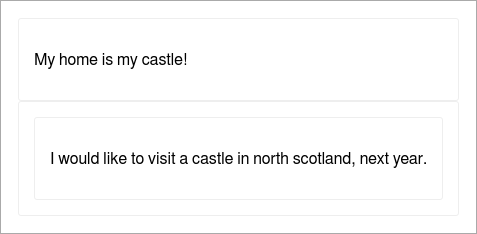
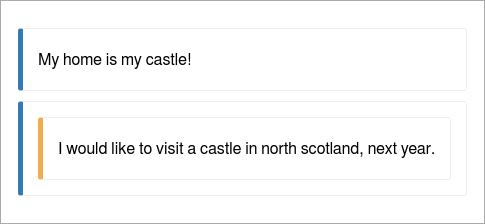
Optimize style of blockquotes.

Changed region(s): [[0.0294, 0.4375, 0.9099, 0.875], [0.0294, 0.125, 0.4109, 0.4062]]

diff --git a/src/examples/block-code.html b/src/examples/block-code.html
@@ -3,7 +3,7 @@
   <head>
     <title>Report</title>
     <meta charset="UTF-8" />
-    <link rel="stylesheet" href="https://cdn.jsdelivr.net/highlight.js/8.5.0/styles/solarized_light.min.css" /><style type="text/css">html{background:#ddd;padding:20px}body{font-family:"Helvetica Neue",Helvetica,"Segoe UI",Arial,freesans,sans-serif,"Apple Color Emoji","Segoe UI Emoji","Segoe UI Symbol";font-size:16px;line-height:1.2;word-wrap:break-word}div#page{border:1px solid #aaa;box-shadow:0 8px 16px 0 rgba(0,0,0,0.4),0 12px 40px 0 rgba(0,0,0,0.4);max-width:800px;display:inline-block;background:#fff;padding:17px;overflow:auto}div#page > h1{margin-top:0}h1{border-bottom:3px solid #222;padding-bottom:5px}h2{border-bottom:2px dotted #222;padding-bottom:3px}h3{border-bottom:1px dotted #aaa;padding-bottom:2px}a{color:#00008b}dt{font-weight:bold;margin-top:8px}blockquote{border:1px solid #eee;border-radius:3px;border-left:5px solid color-blue;padding:15px;margin:0}img{vertical-align:middle}.emoji{height:1em}abbr,acronym{border-bottom:dotted 1px}table{border-collapse:collapse;border-spacing:0;display:block;width:100%;overflow:auto;word-break:normal;word-break:keep-all;}table th,table td{padding:6px 13px;border:1px solid #ddd}table th{background-color:rgba(0,0,0,0.04);font-weight:bold;border-bottom:3px solid #999}table tr{background-color:#fff;border-top:1px solid #ccc;}table tr :nth-child(2n){background-color:rgba(0,0,0,0.04)}code,tt{background-color:#fafafa;border-radius:4px;font-size:85%;margin:0;padding:.2em 0}pre{background-color:#fafafa;border-radius:10px;border:1px solid #a4a4a4;font-size:85%;margin:20px;padding:10px;counter-reset:line;}pre code,pre tt{background:none;}pre code:before,pre tt:before{counter-increment:line;content:counter(line);min-width:35px;display:block;float:left;text-align:right;padding-right:5px;color:#808080;-webkit-touch-callout:none;user-select:none;-webkit-user-select:none}pre.language{max-height:280px;padding-top:30px;}pre.language header{font-weight:bold;background:#fafafa;margin:-30px -10px 5px -10px;padding:5px 15px}pre.language.bash header,pre.language.coffeescript header,pre.language.js header,pre.language.sh header,pre.language.sql header{background:#f0ad4e}pre.language.json header,pre.language.yaml header{background:#61b961}pre.language.handlebars header,pre.language.markdown header{background:#76abca}.table-of-contents{border:2px solid #ddd;border-radius:10px;float:right;margin-top:0;padding:10px 10px 10px 25px;background:#fafafa;font-size:90%;}.table-of-contents header{font-weight:bold;font-size:120%;display:block;background:#ddd;margin:-10px -10px 4px -25px;border-top-left-radius:10px;border-top-right-radius:10px;padding:3px 10px}.table-of-contents ul{padding-left:15px}.table-of-contents a{text-decoration:none}div.detail,div.info,div.warning,div.alert{padding:30px 10px 6px 10px;margin:5px 0 8px 0;border-radius:3px;}div.detail >p,div.info >p,div.warning >p,div.alert >p{margin-bottom:0}div.detail header,div.info header,div.warning header,div.alert header{font-weight:bold;position:absolute;margin-top:-30px;margin-left:-10px;padding:3px 20px 3px 10px;border-bottom-right-radius:18px}div.detail{background-color:#fafafa;border:2px solid #ddd;}div.detail header{background-color:#ddd}div.info{background-color:#9f9;border:2px solid #6d6;}div.info header{background-color:#6d6}div.warning{background-color:#fc9;border:2px solid #e86;}div.warning header{background-color:#e86}div.alert{background-color:#f99;border:2px solid #c00;}div.alert header{background-color:#c00;color:#fff}.text-red{color:#d13f19}.text-green{color:#2ecc40}.text-yellow{color:#ffdc00}.text-blue{color:#0074d9}.text-magenta{color:#f0f}.text-cyan{color:#0ff}.text-gray{color:#aaa}.bg-white{background-color:#fff}.center{text-align:center}.left{float:left}.right{float:right}.hide{display:none}.spacing{padding:10px}</style>
+    <link rel="stylesheet" href="https://cdn.jsdelivr.net/highlight.js/8.5.0/styles/solarized_light.min.css" /><style type="text/css">html{background:#ddd;padding:20px}body{font-family:"Helvetica Neue",Helvetica,"Segoe UI",Arial,freesans,sans-serif,"Apple Color Emoji","Segoe UI Emoji","Segoe UI Symbol";font-size:16px;line-height:1.2;word-wrap:break-word}div#page{border:1px solid #aaa;box-shadow:0 8px 16px 0 rgba(0,0,0,0.4),0 12px 40px 0 rgba(0,0,0,0.4);max-width:800px;display:inline-block;background:#fff;padding:17px;overflow:auto}div#page > h1{margin-top:0}h1{border-bottom:3px solid #222;padding-bottom:5px}h2{border-bottom:2px dotted #222;padding-bottom:3px}h3{border-bottom:1px dotted #aaa;padding-bottom:2px}a{color:#00008b}dt{font-weight:bold;margin-top:8px}blockquote{border:1px solid #eee;border-radius:3px;border-left:5px solid #337ab7;padding:5px 15px;margin:10px 0;}blockquote blockquote{border-left-color:#f0ad4e;}blockquote blockquote blockquote{border-left-color:#337ab7;}blockquote blockquote blockquote blockquote{border-left-color:#f0ad4e}img{vertical-align:middle}.emoji{height:1em}abbr,acronym{border-bottom:dotted 1px}table{border-collapse:collapse;border-spacing:0;display:block;width:100%;overflow:auto;word-break:normal;word-break:keep-all;}table th,table td{padding:6px 13px;border:1px solid #ddd}table th{background-color:rgba(0,0,0,0.04);font-weight:bold;border-bottom:3px solid #999}table tr{background-color:#fff;border-top:1px solid #ccc;}table tr :nth-child(2n){background-color:rgba(0,0,0,0.04)}code,tt{background-color:#fafafa;border-radius:4px;font-size:85%;margin:0;padding:.2em 0}pre{background-color:#fafafa;border-radius:10px;border:1px solid #a4a4a4;font-size:85%;margin:20px;padding:10px;counter-reset:line;}pre code,pre tt{background:none;}pre code:before,pre tt:before{counter-increment:line;content:counter(line);min-width:35px;display:block;float:left;text-align:right;padding-right:5px;color:#808080;-webkit-touch-callout:none;user-select:none;-webkit-user-select:none}pre.language{max-height:280px;padding-top:30px;}pre.language header{font-weight:bold;background:#fafafa;margin:-30px -10px 5px -10px;padding:5px 15px}pre.language.bash header,pre.language.coffeescript header,pre.language.js header,pre.language.sh header,pre.language.sql header{background:#f0ad4e}pre.language.json header,pre.language.yaml header{background:#61b961}pre.language.handlebars header,pre.language.markdown header{background:#76abca}.table-of-contents{border:2px solid #ddd;border-radius:10px;float:right;margin-top:0;padding:10px 10px 10px 25px;background:#fafafa;font-size:90%;}.table-of-contents header{font-weight:bold;font-size:120%;display:block;background:#ddd;margin:-10px -10px 4px -25px;border-top-left-radius:10px;border-top-right-radius:10px;padding:3px 10px}.table-of-contents ul{padding-left:15px}.table-of-contents a{text-decoration:none}div.detail,div.info,div.warning,div.alert{padding:30px 10px 6px 10px;margin:5px 0 8px 0;border-radius:3px;}div.detail >p,div.info >p,div.warning >p,div.alert >p{margin-bottom:0}div.detail header,div.info header,div.warning header,div.alert header{font-weight:bold;position:absolute;margin-top:-30px;margin-left:-10px;padding:3px 20px 3px 10px;border-bottom-right-radius:18px}div.detail{background-color:#fafafa;border:2px solid #ddd;}div.detail header{background-color:#ddd}div.info{background-color:#9f9;border:2px solid #6d6;}div.info header{background-color:#6d6}div.warning{background-color:#fc9;border:2px solid #e86;}div.warning header{background-color:#e86}div.alert{background-color:#f99;border:2px solid #c00;}div.alert header{background-color:#c00;color:#fff}.text-red{color:#d13f19}.text-green{color:#2ecc40}.text-yellow{color:#ffdc00}.text-blue{color:#0074d9}.text-magenta{color:#f0f}.text-cyan{color:#0ff}.text-gray{color:#aaa}.bg-white{background-color:#fff}.center{text-align:center}.left{float:left}.right{float:right}.hide{display:none}.spacing{padding:10px}</style>
   </head>
   <body><div id="page"><pre class="language javascript"><header>JavaScript Code</header><code><span class="hljs-keyword">var</span> x = <span class="hljs-built_in">Math</span>.round(f);</code></pre>
 <pre class="language markdown"><header>Markdown Document</header><code>This <span class="hljs-strong">**is**</span> a ==markdown== text</code></pre>

diff --git a/src/examples/block-paragraph.html b/src/examples/block-paragraph.html
@@ -3,11 +3,13 @@
   <head>
     <title>Report</title>
     <meta charset="UTF-8" />
-    <style type="text/css">html{background:#ddd;padding:20px}body{font-family:"Helvetica Neue",Helvetica,"Segoe UI",Arial,freesans,sans-serif,"Apple Color Emoji","Segoe UI Emoji","Segoe UI Symbol";font-size:16px;line-height:1.2;word-wrap:break-word}div#page{border:1px solid #aaa;box-shadow:0 8px 16px 0 rgba(0,0,0,0.4),0 12px 40px 0 rgba(0,0,0,0.4);max-width:800px;display:inline-block;background:#fff;padding:17px;overflow:auto}div#page > h1{margin-top:0}h1{border-bottom:3px solid #222;padding-bottom:5px}h2{border-bottom:2px dotted #222;padding-bottom:3px}h3{border-bottom:1px dotted #aaa;padding-bottom:2px}a{color:#00008b}dt{font-weight:bold;margin-top:8px}blockquote{border:1px solid #eee;border-radius:3px;border-left:5px solid color-blue;padding:15px;margin:0}img{vertical-align:middle}.emoji{height:1em}abbr,acronym{border-bottom:dotted 1px}table{border-collapse:collapse;border-spacing:0;display:block;width:100%;overflow:auto;word-break:normal;word-break:keep-all;}table th,table td{padding:6px 13px;border:1px solid #ddd}table th{background-color:rgba(0,0,0,0.04);font-weight:bold;border-bottom:3px solid #999}table tr{background-color:#fff;border-top:1px solid #ccc;}table tr :nth-child(2n){background-color:rgba(0,0,0,0.04)}code,tt{background-color:#fafafa;border-radius:4px;font-size:85%;margin:0;padding:.2em 0}pre{background-color:#fafafa;border-radius:10px;border:1px solid #a4a4a4;font-size:85%;margin:20px;padding:10px;counter-reset:line;}pre code,pre tt{background:none;}pre code:before,pre tt:before{counter-increment:line;content:counter(line);min-width:35px;display:block;float:left;text-align:right;padding-right:5px;color:#808080;-webkit-touch-callout:none;user-select:none;-webkit-user-select:none}pre.language{max-height:280px;padding-top:30px;}pre.language header{font-weight:bold;background:#fafafa;margin:-30px -10px 5px -10px;padding:5px 15px}pre.language.bash header,pre.language.coffeescript header,pre.language.js header,pre.language.sh header,pre.language.sql header{background:#f0ad4e}pre.language.json header,pre.language.yaml header{background:#61b961}pre.language.handlebars header,pre.language.markdown header{background:#76abca}.table-of-contents{border:2px solid #ddd;border-radius:10px;float:right;margin-top:0;padding:10px 10px 10px 25px;background:#fafafa;font-size:90%;}.table-of-contents header{font-weight:bold;font-size:120%;display:block;background:#ddd;margin:-10px -10px 4px -25px;border-top-left-radius:10px;border-top-right-radius:10px;padding:3px 10px}.table-of-contents ul{padding-left:15px}.table-of-contents a{text-decoration:none}div.detail,div.info,div.warning,div.alert{padding:30px 10px 6px 10px;margin:5px 0 8px 0;border-radius:3px;}div.detail >p,div.info >p,div.warning >p,div.alert >p{margin-bottom:0}div.detail header,div.info header,div.warning header,div.alert header{font-weight:bold;position:absolute;margin-top:-30px;margin-left:-10px;padding:3px 20px 3px 10px;border-bottom-right-radius:18px}div.detail{background-color:#fafafa;border:2px solid #ddd;}div.detail header{background-color:#ddd}div.info{background-color:#9f9;border:2px solid #6d6;}div.info header{background-color:#6d6}div.warning{background-color:#fc9;border:2px solid #e86;}div.warning header{background-color:#e86}div.alert{background-color:#f99;border:2px solid #c00;}div.alert header{background-color:#c00;color:#fff}.text-red{color:#d13f19}.text-green{color:#2ecc40}.text-yellow{color:#ffdc00}.text-blue{color:#0074d9}.text-magenta{color:#f0f}.text-cyan{color:#0ff}.text-gray{color:#aaa}.bg-white{background-color:#fff}.center{text-align:center}.left{float:left}.right{float:right}.hide{display:none}.spacing{padding:10px}</style>
+    <style type="text/css">html{background:#ddd;padding:20px}body{font-family:"Helvetica Neue",Helvetica,"Segoe UI",Arial,freesans,sans-serif,"Apple Color Emoji","Segoe UI Emoji","Segoe UI Symbol";font-size:16px;line-height:1.2;word-wrap:break-word}div#page{border:1px solid #aaa;box-shadow:0 8px 16px 0 rgba(0,0,0,0.4),0 12px 40px 0 rgba(0,0,0,0.4);max-width:800px;display:inline-block;background:#fff;padding:17px;overflow:auto}div#page > h1{margin-top:0}h1{border-bottom:3px solid #222;padding-bottom:5px}h2{border-bottom:2px dotted #222;padding-bottom:3px}h3{border-bottom:1px dotted #aaa;padding-bottom:2px}a{color:#00008b}dt{font-weight:bold;margin-top:8px}blockquote{border:1px solid #eee;border-radius:3px;border-left:5px solid #337ab7;padding:5px 15px;margin:10px 0;}blockquote blockquote{border-left-color:#f0ad4e;}blockquote blockquote blockquote{border-left-color:#337ab7;}blockquote blockquote blockquote blockquote{border-left-color:#f0ad4e}img{vertical-align:middle}.emoji{height:1em}abbr,acronym{border-bottom:dotted 1px}table{border-collapse:collapse;border-spacing:0;display:block;width:100%;overflow:auto;word-break:normal;word-break:keep-all;}table th,table td{padding:6px 13px;border:1px solid #ddd}table th{background-color:rgba(0,0,0,0.04);font-weight:bold;border-bottom:3px solid #999}table tr{background-color:#fff;border-top:1px solid #ccc;}table tr :nth-child(2n){background-color:rgba(0,0,0,0.04)}code,tt{background-color:#fafafa;border-radius:4px;font-size:85%;margin:0;padding:.2em 0}pre{background-color:#fafafa;border-radius:10px;border:1px solid #a4a4a4;font-size:85%;margin:20px;padding:10px;counter-reset:line;}pre code,pre tt{background:none;}pre code:before,pre tt:before{counter-increment:line;content:counter(line);min-width:35px;display:block;float:left;text-align:right;padding-right:5px;color:#808080;-webkit-touch-callout:none;user-select:none;-webkit-user-select:none}pre.language{max-height:280px;padding-top:30px;}pre.language header{font-weight:bold;background:#fafafa;margin:-30px -10px 5px -10px;padding:5px 15px}pre.language.bash header,pre.language.coffeescript header,pre.language.js header,pre.language.sh header,pre.language.sql header{background:#f0ad4e}pre.language.json header,pre.language.yaml header{background:#61b961}pre.language.handlebars header,pre.language.markdown header{background:#76abca}.table-of-contents{border:2px solid #ddd;border-radius:10px;float:right;margin-top:0;padding:10px 10px 10px 25px;background:#fafafa;font-size:90%;}.table-of-contents header{font-weight:bold;font-size:120%;display:block;background:#ddd;margin:-10px -10px 4px -25px;border-top-left-radius:10px;border-top-right-radius:10px;padding:3px 10px}.table-of-contents ul{padding-left:15px}.table-of-contents a{text-decoration:none}div.detail,div.info,div.warning,div.alert{padding:30px 10px 6px 10px;margin:5px 0 8px 0;border-radius:3px;}div.detail >p,div.info >p,div.warning >p,div.alert >p{margin-bottom:0}div.detail header,div.info header,div.warning header,div.alert header{font-weight:bold;position:absolute;margin-top:-30px;margin-left:-10px;padding:3px 20px 3px 10px;border-bottom-right-radius:18px}div.detail{background-color:#fafafa;border:2px solid #ddd;}div.detail header{background-color:#ddd}div.info{background-color:#9f9;border:2px solid #6d6;}div.info header{background-color:#6d6}div.warning{background-color:#fc9;border:2px solid #e86;}div.warning header{background-color:#e86}div.alert{background-color:#f99;border:2px solid #c00;}div.alert header{background-color:#c00;color:#fff}.text-red{color:#d13f19}.text-green{color:#2ecc40}.text-yellow{color:#ffdc00}.text-blue{color:#0074d9}.text-magenta{color:#f0f}.text-cyan{color:#0ff}.text-gray{color:#aaa}.bg-white{background-color:#fff}.center{text-align:center}.left{float:left}.right{float:right}.hide{display:none}.spacing{padding:10px}</style>
   </head>
   <body><div id="page"><p>A new paragraph.</p>
 <p>A long text may be automatically broken
-into multiple lines.</p>
+into multiple lines. This is done in
+markup as defined and in html only as
+needed.</p>
 <p>And here comes a fixed<br />
 linebreak.</p>
 <p>With a second paragraph.</p>

diff --git a/src/examples/block-pre.html b/src/examples/block-pre.html
@@ -3,7 +3,7 @@
   <head>
     <title>Report</title>
     <meta charset="UTF-8" />
-    <style type="text/css">html{background:#ddd;padding:20px}body{font-family:"Helvetica Neue",Helvetica,"Segoe UI",Arial,freesans,sans-serif,"Apple Color Emoji","Segoe UI Emoji","Segoe UI Symbol";font-size:16px;line-height:1.2;word-wrap:break-word}div#page{border:1px solid #aaa;box-shadow:0 8px 16px 0 rgba(0,0,0,0.4),0 12px 40px 0 rgba(0,0,0,0.4);max-width:800px;display:inline-block;background:#fff;padding:17px;overflow:auto}div#page > h1{margin-top:0}h1{border-bottom:3px solid #222;padding-bottom:5px}h2{border-bottom:2px dotted #222;padding-bottom:3px}h3{border-bottom:1px dotted #aaa;padding-bottom:2px}a{color:#00008b}dt{font-weight:bold;margin-top:8px}blockquote{border:1px solid #eee;border-radius:3px;border-left:5px solid color-blue;padding:15px;margin:0}img{vertical-align:middle}.emoji{height:1em}abbr,acronym{border-bottom:dotted 1px}table{border-collapse:collapse;border-spacing:0;display:block;width:100%;overflow:auto;word-break:normal;word-break:keep-all;}table th,table td{padding:6px 13px;border:1px solid #ddd}table th{background-color:rgba(0,0,0,0.04);font-weight:bold;border-bottom:3px solid #999}table tr{background-color:#fff;border-top:1px solid #ccc;}table tr :nth-child(2n){background-color:rgba(0,0,0,0.04)}code,tt{background-color:#fafafa;border-radius:4px;font-size:85%;margin:0;padding:.2em 0}pre{background-color:#fafafa;border-radius:10px;border:1px solid #a4a4a4;font-size:85%;margin:20px;padding:10px;counter-reset:line;}pre code,pre tt{background:none;}pre code:before,pre tt:before{counter-increment:line;content:counter(line);min-width:35px;display:block;float:left;text-align:right;padding-right:5px;color:#808080;-webkit-touch-callout:none;user-select:none;-webkit-user-select:none}pre.language{max-height:280px;padding-top:30px;}pre.language header{font-weight:bold;background:#fafafa;margin:-30px -10px 5px -10px;padding:5px 15px}pre.language.bash header,pre.language.coffeescript header,pre.language.js header,pre.language.sh header,pre.language.sql header{background:#f0ad4e}pre.language.json header,pre.language.yaml header{background:#61b961}pre.language.handlebars header,pre.language.markdown header{background:#76abca}.table-of-contents{border:2px solid #ddd;border-radius:10px;float:right;margin-top:0;padding:10px 10px 10px 25px;background:#fafafa;font-size:90%;}.table-of-contents header{font-weight:bold;font-size:120%;display:block;background:#ddd;margin:-10px -10px 4px -25px;border-top-left-radius:10px;border-top-right-radius:10px;padding:3px 10px}.table-of-contents ul{padding-left:15px}.table-of-contents a{text-decoration:none}div.detail,div.info,div.warning,div.alert{padding:30px 10px 6px 10px;margin:5px 0 8px 0;border-radius:3px;}div.detail >p,div.info >p,div.warning >p,div.alert >p{margin-bottom:0}div.detail header,div.info header,div.warning header,div.alert header{font-weight:bold;position:absolute;margin-top:-30px;margin-left:-10px;padding:3px 20px 3px 10px;border-bottom-right-radius:18px}div.detail{background-color:#fafafa;border:2px solid #ddd;}div.detail header{background-color:#ddd}div.info{background-color:#9f9;border:2px solid #6d6;}div.info header{background-color:#6d6}div.warning{background-color:#fc9;border:2px solid #e86;}div.warning header{background-color:#e86}div.alert{background-color:#f99;border:2px solid #c00;}div.alert header{background-color:#c00;color:#fff}.text-red{color:#d13f19}.text-green{color:#2ecc40}.text-yellow{color:#ffdc00}.text-blue{color:#0074d9}.text-magenta{color:#f0f}.text-cyan{color:#0ff}.text-gray{color:#aaa}.bg-white{background-color:#fff}.center{text-align:center}.left{float:left}.right{float:right}.hide{display:none}.spacing{padding:10px}</style>
+    <style type="text/css">html{background:#ddd;padding:20px}body{font-family:"Helvetica Neue",Helvetica,"Segoe UI",Arial,freesans,sans-serif,"Apple Color Emoji","Segoe UI Emoji","Segoe UI Symbol";font-size:16px;line-height:1.2;word-wrap:break-word}div#page{border:1px solid #aaa;box-shadow:0 8px 16px 0 rgba(0,0,0,0.4),0 12px 40px 0 rgba(0,0,0,0.4);max-width:800px;display:inline-block;background:#fff;padding:17px;overflow:auto}div#page > h1{margin-top:0}h1{border-bottom:3px solid #222;padding-bottom:5px}h2{border-bottom:2px dotted #222;padding-bottom:3px}h3{border-bottom:1px dotted #aaa;padding-bottom:2px}a{color:#00008b}dt{font-weight:bold;margin-top:8px}blockquote{border:1px solid #eee;border-radius:3px;border-left:5px solid #337ab7;padding:5px 15px;margin:10px 0;}blockquote blockquote{border-left-color:#f0ad4e;}blockquote blockquote blockquote{border-left-color:#337ab7;}blockquote blockquote blockquote blockquote{border-left-color:#f0ad4e}img{vertical-align:middle}.emoji{height:1em}abbr,acronym{border-bottom:dotted 1px}table{border-collapse:collapse;border-spacing:0;display:block;width:100%;overflow:auto;word-break:normal;word-break:keep-all;}table th,table td{padding:6px 13px;border:1px solid #ddd}table th{background-color:rgba(0,0,0,0.04);font-weight:bold;border-bottom:3px solid #999}table tr{background-color:#fff;border-top:1px solid #ccc;}table tr :nth-child(2n){background-color:rgba(0,0,0,0.04)}code,tt{background-color:#fafafa;border-radius:4px;font-size:85%;margin:0;padding:.2em 0}pre{background-color:#fafafa;border-radius:10px;border:1px solid #a4a4a4;font-size:85%;margin:20px;padding:10px;counter-reset:line;}pre code,pre tt{background:none;}pre code:before,pre tt:before{counter-increment:line;content:counter(line);min-width:35px;display:block;float:left;text-align:right;padding-right:5px;color:#808080;-webkit-touch-callout:none;user-select:none;-webkit-user-select:none}pre.language{max-height:280px;padding-top:30px;}pre.language header{font-weight:bold;background:#fafafa;margin:-30px -10px 5px -10px;padding:5px 15px}pre.language.bash header,pre.language.coffeescript header,pre.language.js header,pre.language.sh header,pre.language.sql header{background:#f0ad4e}pre.language.json header,pre.language.yaml header{background:#61b961}pre.language.handlebars header,pre.language.markdown header{background:#76abca}.table-of-contents{border:2px solid #ddd;border-radius:10px;float:right;margin-top:0;padding:10px 10px 10px 25px;background:#fafafa;font-size:90%;}.table-of-contents header{font-weight:bold;font-size:120%;display:block;background:#ddd;margin:-10px -10px 4px -25px;border-top-left-radius:10px;border-top-right-radius:10px;padding:3px 10px}.table-of-contents ul{padding-left:15px}.table-of-contents a{text-decoration:none}div.detail,div.info,div.warning,div.alert{padding:30px 10px 6px 10px;margin:5px 0 8px 0;border-radius:3px;}div.detail >p,div.info >p,div.warning >p,div.alert >p{margin-bottom:0}div.detail header,div.info header,div.warning header,div.alert header{font-weight:bold;position:absolute;margin-top:-30px;margin-left:-10px;padding:3px 20px 3px 10px;border-bottom-right-radius:18px}div.detail{background-color:#fafafa;border:2px solid #ddd;}div.detail header{background-color:#ddd}div.info{background-color:#9f9;border:2px solid #6d6;}div.info header{background-color:#6d6}div.warning{background-color:#fc9;border:2px solid #e86;}div.warning header{background-color:#e86}div.alert{background-color:#f99;border:2px solid #c00;}div.alert header{background-color:#c00;color:#fff}.text-red{color:#d13f19}.text-green{color:#2ecc40}.text-yellow{color:#ffdc00}.text-blue{color:#0074d9}.text-magenta{color:#f0f}.text-cyan{color:#0ff}.text-gray{color:#aaa}.bg-white{background-color:#fff}.center{text-align:center}.left{float:left}.right{float:right}.hide{display:none}.spacing{padding:10px}</style>
   </head>
   <body><div id="page"><pre><code>This is a text code block.
 It should be kept as is.

diff --git a/src/examples/block-quote2.html b/src/examples/block-quote2.html
@@ -3,7 +3,7 @@
   <head>
     <title>Report</title>
     <meta charset="UTF-8" />
-    <style type="text/css">html{background:#ddd;padding:20px}body{font-family:"Helvetica Neue",Helvetica,"Segoe UI",Arial,freesans,sans-serif,"Apple Color Emoji","Segoe UI Emoji","Segoe UI Symbol";font-size:16px;line-height:1.2;word-wrap:break-word}div#page{border:1px solid #aaa;box-shadow:0 8px 16px 0 rgba(0,0,0,0.4),0 12px 40px 0 rgba(0,0,0,0.4);max-width:800px;display:inline-block;background:#fff;padding:17px;overflow:auto}div#page > h1{margin-top:0}h1{border-bottom:3px solid #222;padding-bottom:5px}h2{border-bottom:2px dotted #222;padding-bottom:3px}h3{border-bottom:1px dotted #aaa;padding-bottom:2px}a{color:#00008b}dt{font-weight:bold;margin-top:8px}blockquote{border:1px solid #eee;border-radius:3px;border-left:5px solid color-blue;padding:15px;margin:0}img{vertical-align:middle}.emoji{height:1em}abbr,acronym{border-bottom:dotted 1px}table{border-collapse:collapse;border-spacing:0;display:block;width:100%;overflow:auto;word-break:normal;word-break:keep-all;}table th,table td{padding:6px 13px;border:1px solid #ddd}table th{background-color:rgba(0,0,0,0.04);font-weight:bold;border-bottom:3px solid #999}table tr{background-color:#fff;border-top:1px solid #ccc;}table tr :nth-child(2n){background-color:rgba(0,0,0,0.04)}code,tt{background-color:#fafafa;border-radius:4px;font-size:85%;margin:0;padding:.2em 0}pre{background-color:#fafafa;border-radius:10px;border:1px solid #a4a4a4;font-size:85%;margin:20px;padding:10px;counter-reset:line;}pre code,pre tt{background:none;}pre code:before,pre tt:before{counter-increment:line;content:counter(line);min-width:35px;display:block;float:left;text-align:right;padding-right:5px;color:#808080;-webkit-touch-callout:none;user-select:none;-webkit-user-select:none}pre.language{max-height:280px;padding-top:30px;}pre.language header{font-weight:bold;background:#fafafa;margin:-30px -10px 5px -10px;padding:5px 15px}pre.language.bash header,pre.language.coffeescript header,pre.language.js header,pre.language.sh header,pre.language.sql header{background:#f0ad4e}pre.language.json header,pre.language.yaml header{background:#61b961}pre.language.handlebars header,pre.language.markdown header{background:#76abca}.table-of-contents{border:2px solid #ddd;border-radius:10px;float:right;margin-top:0;padding:10px 10px 10px 25px;background:#fafafa;font-size:90%;}.table-of-contents header{font-weight:bold;font-size:120%;display:block;background:#ddd;margin:-10px -10px 4px -25px;border-top-left-radius:10px;border-top-right-radius:10px;padding:3px 10px}.table-of-contents ul{padding-left:15px}.table-of-contents a{text-decoration:none}div.detail,div.info,div.warning,div.alert{padding:30px 10px 6px 10px;margin:5px 0 8px 0;border-radius:3px;}div.detail >p,div.info >p,div.warning >p,div.alert >p{margin-bottom:0}div.detail header,div.info header,div.warning header,div.alert header{font-weight:bold;position:absolute;margin-top:-30px;margin-left:-10px;padding:3px 20px 3px 10px;border-bottom-right-radius:18px}div.detail{background-color:#fafafa;border:2px solid #ddd;}div.detail header{background-color:#ddd}div.info{background-color:#9f9;border:2px solid #6d6;}div.info header{background-color:#6d6}div.warning{background-color:#fc9;border:2px solid #e86;}div.warning header{background-color:#e86}div.alert{background-color:#f99;border:2px solid #c00;}div.alert header{background-color:#c00;color:#fff}.text-red{color:#d13f19}.text-green{color:#2ecc40}.text-yellow{color:#ffdc00}.text-blue{color:#0074d9}.text-magenta{color:#f0f}.text-cyan{color:#0ff}.text-gray{color:#aaa}.bg-white{background-color:#fff}.center{text-align:center}.left{float:left}.right{float:right}.hide{display:none}.spacing{padding:10px}</style>
+    <style type="text/css">html{background:#ddd;padding:20px}body{font-family:"Helvetica Neue",Helvetica,"Segoe UI",Arial,freesans,sans-serif,"Apple Color Emoji","Segoe UI Emoji","Segoe UI Symbol";font-size:16px;line-height:1.2;word-wrap:break-word}div#page{border:1px solid #aaa;box-shadow:0 8px 16px 0 rgba(0,0,0,0.4),0 12px 40px 0 rgba(0,0,0,0.4);max-width:800px;display:inline-block;background:#fff;padding:17px;overflow:auto}div#page > h1{margin-top:0}h1{border-bottom:3px solid #222;padding-bottom:5px}h2{border-bottom:2px dotted #222;padding-bottom:3px}h3{border-bottom:1px dotted #aaa;padding-bottom:2px}a{color:#00008b}dt{font-weight:bold;margin-top:8px}blockquote{border:1px solid #eee;border-radius:3px;border-left:5px solid #337ab7;padding:5px 15px;margin:10px 0;}blockquote blockquote{border-left-color:#f0ad4e;}blockquote blockquote blockquote{border-left-color:#337ab7;}blockquote blockquote blockquote blockquote{border-left-color:#f0ad4e}img{vertical-align:middle}.emoji{height:1em}abbr,acronym{border-bottom:dotted 1px}table{border-collapse:collapse;border-spacing:0;display:block;width:100%;overflow:auto;word-break:normal;word-break:keep-all;}table th,table td{padding:6px 13px;border:1px solid #ddd}table th{background-color:rgba(0,0,0,0.04);font-weight:bold;border-bottom:3px solid #999}table tr{background-color:#fff;border-top:1px solid #ccc;}table tr :nth-child(2n){background-color:rgba(0,0,0,0.04)}code,tt{background-color:#fafafa;border-radius:4px;font-size:85%;margin:0;padding:.2em 0}pre{background-color:#fafafa;border-radius:10px;border:1px solid #a4a4a4;font-size:85%;margin:20px;padding:10px;counter-reset:line;}pre code,pre tt{background:none;}pre code:before,pre tt:before{counter-increment:line;content:counter(line);min-width:35px;display:block;float:left;text-align:right;padding-right:5px;color:#808080;-webkit-touch-callout:none;user-select:none;-webkit-user-select:none}pre.language{max-height:280px;padding-top:30px;}pre.language header{font-weight:bold;background:#fafafa;margin:-30px -10px 5px -10px;padding:5px 15px}pre.language.bash header,pre.language.coffeescript header,pre.language.js header,pre.language.sh header,pre.language.sql header{background:#f0ad4e}pre.language.json header,pre.language.yaml header{background:#61b961}pre.language.handlebars header,pre.language.markdown header{background:#76abca}.table-of-contents{border:2px solid #ddd;border-radius:10px;float:right;margin-top:0;padding:10px 10px 10px 25px;background:#fafafa;font-size:90%;}.table-of-contents header{font-weight:bold;font-size:120%;display:block;background:#ddd;margin:-10px -10px 4px -25px;border-top-left-radius:10px;border-top-right-radius:10px;padding:3px 10px}.table-of-contents ul{padding-left:15px}.table-of-contents a{text-decoration:none}div.detail,div.info,div.warning,div.alert{padding:30px 10px 6px 10px;margin:5px 0 8px 0;border-radius:3px;}div.detail >p,div.info >p,div.warning >p,div.alert >p{margin-bottom:0}div.detail header,div.info header,div.warning header,div.alert header{font-weight:bold;position:absolute;margin-top:-30px;margin-left:-10px;padding:3px 20px 3px 10px;border-bottom-right-radius:18px}div.detail{background-color:#fafafa;border:2px solid #ddd;}div.detail header{background-color:#ddd}div.info{background-color:#9f9;border:2px solid #6d6;}div.info header{background-color:#6d6}div.warning{background-color:#fc9;border:2px solid #e86;}div.warning header{background-color:#e86}div.alert{background-color:#f99;border:2px solid #c00;}div.alert header{background-color:#c00;color:#fff}.text-red{color:#d13f19}.text-green{color:#2ecc40}.text-yellow{color:#ffdc00}.text-blue{color:#0074d9}.text-magenta{color:#f0f}.text-cyan{color:#0ff}.text-gray{color:#aaa}.bg-white{background-color:#fff}.center{text-align:center}.left{float:left}.right{float:right}.hide{display:none}.spacing{padding:10px}</style>
   </head>
   <body><div id="page"><blockquote>
 <p>Blockquotes can also be nested…</p>

diff --git a/src/examples/block-quote.html b/src/examples/block-quote.html
@@ -3,7 +3,7 @@
   <head>
     <title>Report</title>
     <meta charset="UTF-8" />
-    <style type="text/css">html{background:#ddd;padding:20px}body{font-family:"Helvetica Neue",Helvetica,"Segoe UI",Arial,freesans,sans-serif,"Apple Color Emoji","Segoe UI Emoji","Segoe UI Symbol";font-size:16px;line-height:1.2;word-wrap:break-word}div#page{border:1px solid #aaa;box-shadow:0 8px 16px 0 rgba(0,0,0,0.4),0 12px 40px 0 rgba(0,0,0,0.4);max-width:800px;display:inline-block;background:#fff;padding:17px;overflow:auto}div#page > h1{margin-top:0}h1{border-bottom:3px solid #222;padding-bottom:5px}h2{border-bottom:2px dotted #222;padding-bottom:3px}h3{border-bottom:1px dotted #aaa;padding-bottom:2px}a{color:#00008b}dt{font-weight:bold;margin-top:8px}blockquote{border:1px solid #eee;border-radius:3px;border-left:5px solid color-blue;padding:15px;margin:0}img{vertical-align:middle}.emoji{height:1em}abbr,acronym{border-bottom:dotted 1px}table{border-collapse:collapse;border-spacing:0;display:block;width:100%;overflow:auto;word-break:normal;word-break:keep-all;}table th,table td{padding:6px 13px;border:1px solid #ddd}table th{background-color:rgba(0,0,0,0.04);font-weight:bold;border-bottom:3px solid #999}table tr{background-color:#fff;border-top:1px solid #ccc;}table tr :nth-child(2n){background-color:rgba(0,0,0,0.04)}code,tt{background-color:#fafafa;border-radius:4px;font-size:85%;margin:0;padding:.2em 0}pre{background-color:#fafafa;border-radius:10px;border:1px solid #a4a4a4;font-size:85%;margin:20px;padding:10px;counter-reset:line;}pre code,pre tt{background:none;}pre code:before,pre tt:before{counter-increment:line;content:counter(line);min-width:35px;display:block;float:left;text-align:right;padding-right:5px;color:#808080;-webkit-touch-callout:none;user-select:none;-webkit-user-select:none}pre.language{max-height:280px;padding-top:30px;}pre.language header{font-weight:bold;background:#fafafa;margin:-30px -10px 5px -10px;padding:5px 15px}pre.language.bash header,pre.language.coffeescript header,pre.language.js header,pre.language.sh header,pre.language.sql header{background:#f0ad4e}pre.language.json header,pre.language.yaml header{background:#61b961}pre.language.handlebars header,pre.language.markdown header{background:#76abca}.table-of-contents{border:2px solid #ddd;border-radius:10px;float:right;margin-top:0;padding:10px 10px 10px 25px;background:#fafafa;font-size:90%;}.table-of-contents header{font-weight:bold;font-size:120%;display:block;background:#ddd;margin:-10px -10px 4px -25px;border-top-left-radius:10px;border-top-right-radius:10px;padding:3px 10px}.table-of-contents ul{padding-left:15px}.table-of-contents a{text-decoration:none}div.detail,div.info,div.warning,div.alert{padding:30px 10px 6px 10px;margin:5px 0 8px 0;border-radius:3px;}div.detail >p,div.info >p,div.warning >p,div.alert >p{margin-bottom:0}div.detail header,div.info header,div.warning header,div.alert header{font-weight:bold;position:absolute;margin-top:-30px;margin-left:-10px;padding:3px 20px 3px 10px;border-bottom-right-radius:18px}div.detail{background-color:#fafafa;border:2px solid #ddd;}div.detail header{background-color:#ddd}div.info{background-color:#9f9;border:2px solid #6d6;}div.info header{background-color:#6d6}div.warning{background-color:#fc9;border:2px solid #e86;}div.warning header{background-color:#e86}div.alert{background-color:#f99;border:2px solid #c00;}div.alert header{background-color:#c00;color:#fff}.text-red{color:#d13f19}.text-green{color:#2ecc40}.text-yellow{color:#ffdc00}.text-blue{color:#0074d9}.text-magenta{color:#f0f}.text-cyan{color:#0ff}.text-gray{color:#aaa}.bg-white{background-color:#fff}.center{text-align:center}.left{float:left}.right{float:right}.hide{display:none}.spacing{padding:10px}</style>
+    <style type="text/css">html{background:#ddd;padding:20px}body{font-family:"Helvetica Neue",Helvetica,"Segoe UI",Arial,freesans,sans-serif,"Apple Color Emoji","Segoe UI Emoji","Segoe UI Symbol";font-size:16px;line-height:1.2;word-wrap:break-word}div#page{border:1px solid #aaa;box-shadow:0 8px 16px 0 rgba(0,0,0,0.4),0 12px 40px 0 rgba(0,0,0,0.4);max-width:800px;display:inline-block;background:#fff;padding:17px;overflow:auto}div#page > h1{margin-top:0}h1{border-bottom:3px solid #222;padding-bottom:5px}h2{border-bottom:2px dotted #222;padding-bottom:3px}h3{border-bottom:1px dotted #aaa;padding-bottom:2px}a{color:#00008b}dt{font-weight:bold;margin-top:8px}blockquote{border:1px solid #eee;border-radius:3px;border-left:5px solid #337ab7;padding:5px 15px;margin:10px 0;}blockquote blockquote{border-left-color:#f0ad4e;}blockquote blockquote blockquote{border-left-color:#337ab7;}blockquote blockquote blockquote blockquote{border-left-color:#f0ad4e}img{vertical-align:middle}.emoji{height:1em}abbr,acronym{border-bottom:dotted 1px}table{border-collapse:collapse;border-spacing:0;display:block;width:100%;overflow:auto;word-break:normal;word-break:keep-all;}table th,table td{padding:6px 13px;border:1px solid #ddd}table th{background-color:rgba(0,0,0,0.04);font-weight:bold;border-bottom:3px solid #999}table tr{background-color:#fff;border-top:1px solid #ccc;}table tr :nth-child(2n){background-color:rgba(0,0,0,0.04)}code,tt{background-color:#fafafa;border-radius:4px;font-size:85%;margin:0;padding:.2em 0}pre{background-color:#fafafa;border-radius:10px;border:1px solid #a4a4a4;font-size:85%;margin:20px;padding:10px;counter-reset:line;}pre code,pre tt{background:none;}pre code:before,pre tt:before{counter-increment:line;content:counter(line);min-width:35px;display:block;float:left;text-align:right;padding-right:5px;color:#808080;-webkit-touch-callout:none;user-select:none;-webkit-user-select:none}pre.language{max-height:280px;padding-top:30px;}pre.language header{font-weight:bold;background:#fafafa;margin:-30px -10px 5px -10px;padding:5px 15px}pre.language.bash header,pre.language.coffeescript header,pre.language.js header,pre.language.sh header,pre.language.sql header{background:#f0ad4e}pre.language.json header,pre.language.yaml header{background:#61b961}pre.language.handlebars header,pre.language.markdown header{background:#76abca}.table-of-contents{border:2px solid #ddd;border-radius:10px;float:right;margin-top:0;padding:10px 10px 10px 25px;background:#fafafa;font-size:90%;}.table-of-contents header{font-weight:bold;font-size:120%;display:block;background:#ddd;margin:-10px -10px 4px -25px;border-top-left-radius:10px;border-top-right-radius:10px;padding:3px 10px}.table-of-contents ul{padding-left:15px}.table-of-contents a{text-decoration:none}div.detail,div.info,div.warning,div.alert{padding:30px 10px 6px 10px;margin:5px 0 8px 0;border-radius:3px;}div.detail >p,div.info >p,div.warning >p,div.alert >p{margin-bottom:0}div.detail header,div.info header,div.warning header,div.alert header{font-weight:bold;position:absolute;margin-top:-30px;margin-left:-10px;padding:3px 20px 3px 10px;border-bottom-right-radius:18px}div.detail{background-color:#fafafa;border:2px solid #ddd;}div.detail header{background-color:#ddd}div.info{background-color:#9f9;border:2px solid #6d6;}div.info header{background-color:#6d6}div.warning{background-color:#fc9;border:2px solid #e86;}div.warning header{background-color:#e86}div.alert{background-color:#f99;border:2px solid #c00;}div.alert header{background-color:#c00;color:#fff}.text-red{color:#d13f19}.text-green{color:#2ecc40}.text-yellow{color:#ffdc00}.text-blue{color:#0074d9}.text-magenta{color:#f0f}.text-cyan{color:#0ff}.text-gray{color:#aaa}.bg-white{background-color:#fff}.center{text-align:center}.left{float:left}.right{float:right}.hide{display:none}.spacing{padding:10px}</style>
   </head>
   <body><div id="page"><blockquote>
 <p>My home is my castle!</p>

diff --git a/var/src/template/report/default.css b/var/src/template/report/default.css
@@ -1,1 +1,1 @@
-html{background:#ddd;padding:20px}body{font-family:"Helvetica Neue",Helvetica,"Segoe UI",Arial,freesans,sans-serif,"Apple Color Emoji","Segoe UI Emoji","Segoe UI Symbol";font-size:16px;line-height:1.2;word-wrap:break-word}div#page{border:1px solid #aaa;box-shadow:0 8px 16px 0 rgba(0,0,0,0.4),0 12px 40px 0 rgba(0,0,0,0.4);max-width:800px;display:inline-block;background:#fff;padding:17px;overflow:auto}div#page > h1{margin-top:0}h1{border-bottom:3px solid #222;padding-bottom:5px}h2{border-bottom:2px dotted #222;padding-bottom:3px}h3{border-bottom:1px dotted #aaa;padding-bottom:2px}a{color:#00008b}dt{font-weight:bold;margin-top:8px}blockquote{border:1px solid #eee;border-radius:3px;border-left:5px solid color-blue;padding:15px;margin:0}img{vertical-align:middle}.emoji{height:1em}abbr,acronym{border-bottom:dotted 1px}table{border-collapse:collapse;border-spacing:0;display:block;width:100%;overflow:auto;word-break:normal;word-break:keep-all;}table th,table td{padding:6px 13px;border:1px solid #ddd}table th{background-color:rgba(0,0,0,0.04);font-weight:bold;border-bottom:3px solid #999}table tr{background-color:#fff;border-top:1px solid #ccc;}table tr :nth-child(2n){background-color:rgba(0,0,0,0.04)}code,tt{background-color:#fafafa;border-radius:4px;font-size:85%;margin:0;padding:.2em 0}pre{background-color:#fafafa;border-radius:10px;border:1px solid #a4a4a4;font-size:85%;margin:20px;padding:10px;counter-reset:line;}pre code,pre tt{background:none;}pre code:before,pre tt:before{counter-increment:line;content:counter(line);min-width:35px;display:block;float:left;text-align:right;padding-right:5px;color:#808080;-webkit-touch-callout:none;user-select:none;-webkit-user-select:none}pre.language{max-height:280px;padding-top:30px;}pre.language header{font-weight:bold;background:#fafafa;margin:-30px -10px 5px -10px;padding:5px 15px}pre.language.bash header,pre.language.coffeescript header,pre.language.js header,pre.language.sh header,pre.language.sql header{background:#f0ad4e}pre.language.json header,pre.language.yaml header{background:#61b961}pre.language.handlebars header,pre.language.markdown header{background:#76abca}.table-of-contents{border:2px solid #ddd;border-radius:10px;float:right;margin-top:0;padding:10px 10px 10px 25px;background:#fafafa;font-size:90%;}.table-of-contents header{font-weight:bold;font-size:120%;display:block;background:#ddd;margin:-10px -10px 4px -25px;border-top-left-radius:10px;border-top-right-radius:10px;padding:3px 10px}.table-of-contents ul{padding-left:15px}.table-of-contents a{text-decoration:none}div.detail,div.info,div.warning,div.alert{padding:30px 10px 6px 10px;margin:5px 0 8px 0;border-radius:3px;}div.detail >p,div.info >p,div.warning >p,div.alert >p{margin-bottom:0}div.detail header,div.info header,div.warning header,div.alert header{font-weight:bold;position:absolute;margin-top:-30px;margin-left:-10px;padding:3px 20px 3px 10px;border-bottom-right-radius:18px}div.detail{background-color:#fafafa;border:2px solid #ddd;}div.detail header{background-color:#ddd}div.info{background-color:#9f9;border:2px solid #6d6;}div.info header{background-color:#6d6}div.warning{background-color:#fc9;border:2px solid #e86;}div.warning header{background-color:#e86}div.alert{background-color:#f99;border:2px solid #c00;}div.alert header{background-color:#c00;color:#fff}.text-red{color:#d13f19}.text-green{color:#2ecc40}.text-yellow{color:#ffdc00}.text-blue{color:#0074d9}.text-magenta{color:#f0f}.text-cyan{color:#0ff}.text-gray{color:#aaa}.bg-white{background-color:#fff}.center{text-align:center}.left{float:left}.right{float:right}.hide{display:none}.spacing{padding:10px}
+html{background:#ddd;padding:20px}body{font-family:"Helvetica Neue",Helvetica,"Segoe UI",Arial,freesans,sans-serif,"Apple Color Emoji","Segoe UI Emoji","Segoe UI Symbol";font-size:16px;line-height:1.2;word-wrap:break-word}div#page{border:1px solid #aaa;box-shadow:0 8px 16px 0 rgba(0,0,0,0.4),0 12px 40px 0 rgba(0,0,0,0.4);max-width:800px;display:inline-block;background:#fff;padding:17px;overflow:auto}div#page > h1{margin-top:0}h1{border-bottom:3px solid #222;padding-bottom:5px}h2{border-bottom:2px dotted #222;padding-bottom:3px}h3{border-bottom:1px dotted #aaa;padding-bottom:2px}a{color:#00008b}dt{font-weight:bold;margin-top:8px}blockquote{border:1px solid #eee;border-radius:3px;border-left:5px solid #337ab7;padding:5px 15px;margin:10px 0;}blockquote blockquote{border-left-color:#f0ad4e;}blockquote blockquote blockquote{border-left-color:#337ab7;}blockquote blockquote blockquote blockquote{border-left-color:#f0ad4e}img{vertical-align:middle}.emoji{height:1em}abbr,acronym{border-bottom:dotted 1px}table{border-collapse:collapse;border-spacing:0;display:block;width:100%;overflow:auto;word-break:normal;word-break:keep-all;}table th,table td{padding:6px 13px;border:1px solid #ddd}table th{background-color:rgba(0,0,0,0.04);font-weight:bold;border-bottom:3px solid #999}table tr{background-color:#fff;border-top:1px solid #ccc;}table tr :nth-child(2n){background-color:rgba(0,0,0,0.04)}code,tt{background-color:#fafafa;border-radius:4px;font-size:85%;margin:0;padding:.2em 0}pre{background-color:#fafafa;border-radius:10px;border:1px solid #a4a4a4;font-size:85%;margin:20px;padding:10px;counter-reset:line;}pre code,pre tt{background:none;}pre code:before,pre tt:before{counter-increment:line;content:counter(line);min-width:35px;display:block;float:left;text-align:right;padding-right:5px;color:#808080;-webkit-touch-callout:none;user-select:none;-webkit-user-select:none}pre.language{max-height:280px;padding-top:30px;}pre.language header{font-weight:bold;background:#fafafa;margin:-30px -10px 5px -10px;padding:5px 15px}pre.language.bash header,pre.language.coffeescript header,pre.language.js header,pre.language.sh header,pre.language.sql header{background:#f0ad4e}pre.language.json header,pre.language.yaml header{background:#61b961}pre.language.handlebars header,pre.language.markdown header{background:#76abca}.table-of-contents{border:2px solid #ddd;border-radius:10px;float:right;margin-top:0;padding:10px 10px 10px 25px;background:#fafafa;font-size:90%;}.table-of-contents header{font-weight:bold;font-size:120%;display:block;background:#ddd;margin:-10px -10px 4px -25px;border-top-left-radius:10px;border-top-right-radius:10px;padding:3px 10px}.table-of-contents ul{padding-left:15px}.table-of-contents a{text-decoration:none}div.detail,div.info,div.warning,div.alert{padding:30px 10px 6px 10px;margin:5px 0 8px 0;border-radius:3px;}div.detail >p,div.info >p,div.warning >p,div.alert >p{margin-bottom:0}div.detail header,div.info header,div.warning header,div.alert header{font-weight:bold;position:absolute;margin-top:-30px;margin-left:-10px;padding:3px 20px 3px 10px;border-bottom-right-radius:18px}div.detail{background-color:#fafafa;border:2px solid #ddd;}div.detail header{background-color:#ddd}div.info{background-color:#9f9;border:2px solid #6d6;}div.info header{background-color:#6d6}div.warning{background-color:#fc9;border:2px solid #e86;}div.warning header{background-color:#e86}div.alert{background-color:#f99;border:2px solid #c00;}div.alert header{background-color:#c00;color:#fff}.text-red{color:#d13f19}.text-green{color:#2ecc40}.text-yellow{color:#ffdc00}.text-blue{color:#0074d9}.text-magenta{color:#f0f}.text-cyan{color:#0ff}.text-gray{color:#aaa}.bg-white{background-color:#fff}.center{text-align:center}.left{float:left}.right{float:right}.hide{display:none}.spacing{padding:10px}

diff --git a/src/element/01_heading.md b/src/element/01_heading.md
@@ -32,7 +32,8 @@ With the default style this should look like:
 
 ![html](../examples/headings.png) ![console](../examples/headings.console.png)
 
-Alternatively the first two levels may be also defined as:
+Alternatively the first two levels may be also defined in the same form as the
+other levels:
 
 ``` markdown
 # h1 Heading

diff --git a/src/examples/block-paragraph.md b/src/examples/block-paragraph.md
@@ -4,7 +4,9 @@
 A new paragraph.
 
 A long text may be automatically broken
-into multiple lines.
+into multiple lines. This is done in
+markup as defined and in html only as
+needed.
 
 And here comes a fixed\
 linebreak.
